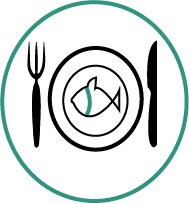
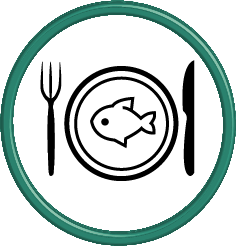
Actualizados iconos / Agregados iconos de  redes sociales

diff --git a/css/secciones.css b/css/secciones.css
@@ -137,3 +137,64 @@
 		font-size: 120%;
 	}
   }
+
+
+  /* IMAGENES DE REDES SOCIALES */
+
+#iconoTwitter {
+	/* Fuente: https://www.flaticon.com/packs/elegant-font */
+	background-position: center center;
+	/* tamano de la imagen */
+	background-size: 100%;
+	display: inline-block;
+	/* tamano actual del elemento */
+	height: 50px;
+	width: 50px;
+	background-repeat: no-repeat;
+	filter: invert(1); /*volvemos la imagen blanca*/
+	/* tamano MAXIMO del elemento */
+	max-width: 256px;
+	max-height: 256px;
+	/* imagen codificada en DATA URI */
+	background-image: 
[1 lines of base64/hex data omitted]
+}
+
+#iconoFacebook{
+	/* Fuente: https://www.flaticon.com/packs/elegant-font */
+	background-position: center center;
+	/* tamano de la imagen */
+	background-size: 100%;
+	display: inline-block;
+	/* tamano actual del elemento */
+	height: 50px;
+	width: 50px;
+	background-repeat: no-repeat;
+	filter: invert(1); /*volvemos la imagen blanca*/
+	/* tamano MAXIMO del elemento */
+	max-width: 256px;
+	max-height: 256px;
+	/* imagen codificada en DATA URI */
+	background-image: 
[1 lines of base64/hex data omitted]
+}
+
+#iconoInstagram{
+	/* Fuente: https://www.flaticon.com/packs/elegant-font */
+	background-position: center center;
+	/* tamano de la imagen */
+	background-size: 100%;
+	display: inline-block;
+	/* tamano actual del elemento */
+	height: 50px;
+	width: 50px;
+	background-repeat: no-repeat;
+	filter: invert(1); /*volvemos la imagen blanca*/
+	/* tamano MAXIMO del elemento */
+	max-width: 256px;
+	max-height: 256px;
+	/* imagen codificada en DATA URI */
+	background-image: 
[1 lines of base64/hex data omitted]
+}
+

diff --git a/index.html b/index.html
@@ -1047,8 +1047,13 @@ Hoy día permanece  imponente como cede de la Diócesis de la ciudad.
 
     <!-- Footer -->
     <footer class="py-5 bg-dark">
-      <div class="container">
-        <p class="m-0 text-center text-white">Copyright &copy; Maria Fernanda Flores</p>
+      <div class="container text-center">
+        <p class="m-0 text-center text-white" style="">Copyright &copy; Maria Fernanda Flores</p>
+        <div style="margin: 2% 0 0 0;" class="row justify-content-around">
+            <div id="iconoTwitter"></div>
+            <div id="iconoFacebook"></div>
+            <div id="iconoInstagram"></div>
+        </div>
       </div>
       <!-- /.container -->
     </footer>

diff --git a/css/galeria.css b/css/galeria.css
@@ -137,16 +137,16 @@
   
   /*Estilos para la barra de scroll*/
   
-  ::-webkit-scrollbar {
+  .card ::-webkit-scrollbar {
       width: 12px;
   }
   
-  ::-webkit-scrollbar-track {
+  .card ::-webkit-scrollbar-track {
       -webkit-box-shadow: inset 0 0 6px rgba(0,0,0,0.3); 
       border-radius: 10px;
   }
   
-  ::-webkit-scrollbar-thumb {
+  .card ::-webkit-scrollbar-thumb {
       border-radius: 5px;
       -webkit-box-shadow: inset 0 0 6px rgba(255,255,255,1); 
   }
